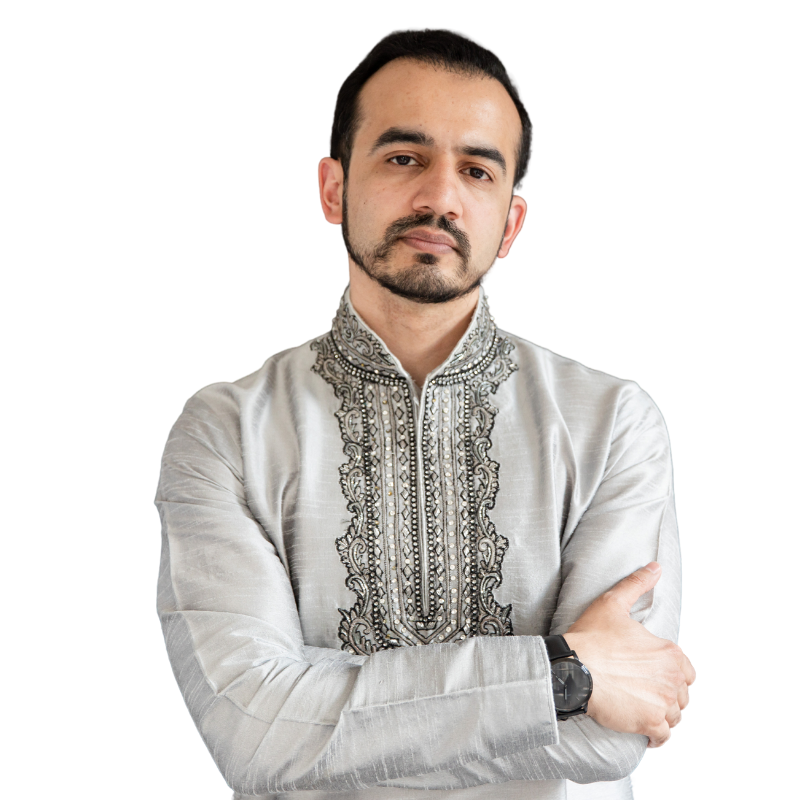
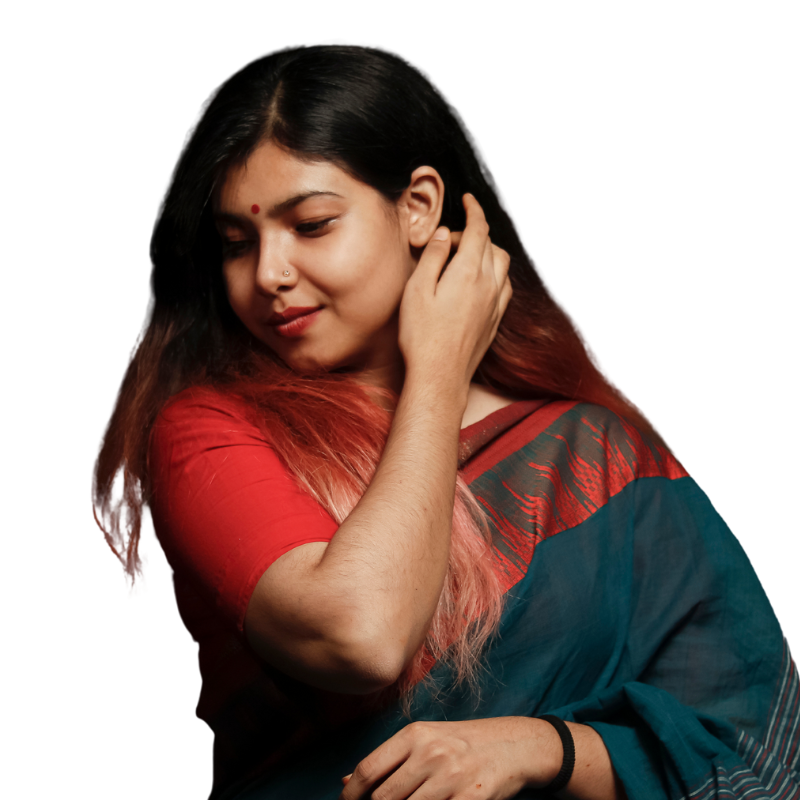
testimonial added

diff --git a/src/component/Services/AllServices/SingleServicePage/SingleServiceTestimonial/TestimonialCarousel/TestimonialCarousel.css b/src/component/Services/AllServices/SingleServicePage/SingleServiceTestimonial/TestimonialCarousel/TestimonialCarousel.css
@@ -1,10 +1,4 @@
-.blogCard{
-    /* border-radius: 15px; */
-    background-color: #ecf3f9;
-    color: var(--primeBLue);
-    border: 1px solid #dbdada;
-    padding: 1rem;
-}
+
 
 .testimonalMemberImg{
     height: 70px;
@@ -13,31 +7,14 @@
     border: .5px solid #b1c9e0;
 }
 
-
-
-
-
-.blogDescription:after{
-    content: '';
-    display: block;
-    padding-bottom: 2rem;
-    border-bottom: 1px solid #dbdada;
-}
-.author img{
-    border-radius: 50%;
-}
-
-.blogImgDiv img{
+.testimonailStaticImgHolder img{
     width: 100%;
-    object-fit: cover;
-    border-radius: 12px;
+    min-height: 350px ;
 }
 
-.p-carousel-item-active{
-    /* position: relative;
-    left: -10px; */
 
-}
+
+
 
 /* .p-carousel .p-carousel-indicators .p-carousel-indicator button{
     border-radius: 50%;
@@ -46,15 +23,23 @@
 } */
 
 @media screen and (max-width:960px){
-    .blogTitle:after{
-        content: '';
-        display: block;
-        padding-bottom: 2rem;
-        border-bottom: 1px solid #dbdada;
-    }
-
     .testimonalMemberImg{
         height: 50px;
         width: 50px;
+    }
+}
+
+@media screen and (min-width: 1200px) {
+
+    .carousel-review .p-carousel .p-carousel-content .p-carousel-indicators .p-carousel-indicator button{
+        border-radius: 50%;
+        width: 1.2rem;
+        height: 1.2rem;
+    }
+
+    .carousel-review  .p-carousel-indicators {
+        position: relative;
+        top: -95px;
+        left: -200px;
     }
 }

diff --git a/src/component/Services/AllServices/SingleServicePage/SingleServiceTestimonial/TestimonialCarousel/TestimonialCarousel.js b/src/component/Services/AllServices/SingleServicePage/SingleServiceTestimonial/TestimonialCarousel/TestimonialCarousel.js
@@ -30,10 +30,10 @@ const TestimonialCarousel = () => {
 
   const TesimonialTemplate = (testimonial) => {
     return (
-      <div className='TestimonialCard my-4'>
+      <div className='TestimonialCard mb-4'>
         <div className='grid'>
-          <div className='col-12 md:col-6 p-2'>
-            <div className='flex flex-column md:flex-row'>
+          <div className='col-12 md:col-7 px-2  pl-2 pr-2 md:pr-7'>
+            <div className='flex flex-column md:flex-row pt-0 md:pt-6'>
               <img
                 src={testimonial.authorPic}
                 alt='testimonial member'
@@ -55,14 +55,18 @@ const TestimonialCarousel = () => {
               </div>
             </div>
           </div>
-          <div className='col-12 md:col-6 hidden md:block'></div>
+          <div className='col-12 md:col-5 hidden md:block'>
+            <div className='testimonailStaticImgHolder'>
+              <img src={testimonial.sideImg} alt='testimonal reviews' />
+            </div>
+          </div>
         </div>
       </div>
     );
   };
 
   return (
-    <div className='carousel-demo'>
+    <div className='carousel-review'>
       <div className='card'>
         <Carousel
           value={testimonials}
